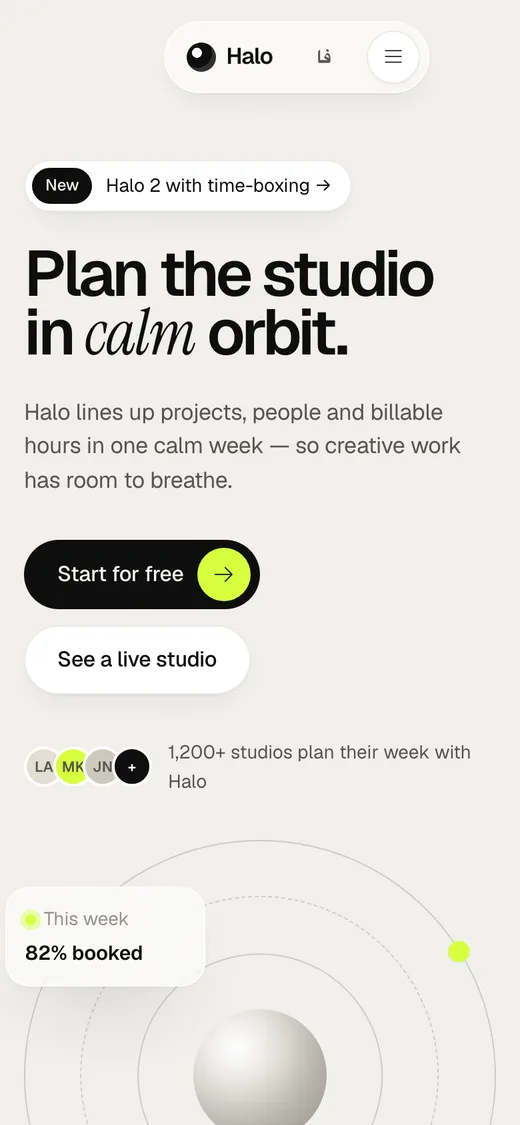
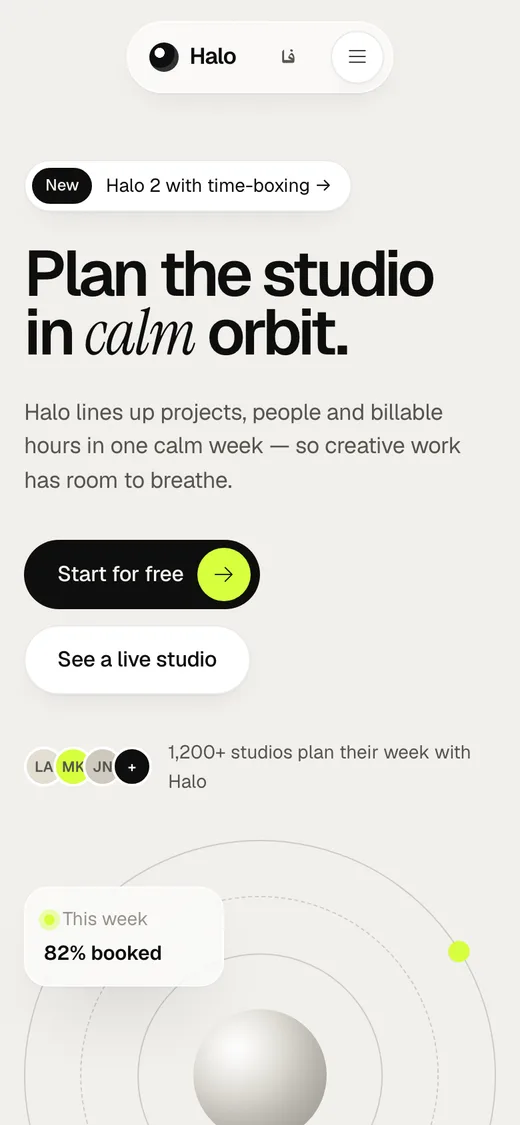
Atelier: keep the hero orbit inside the viewport on small screens

diff --git a/skills/atelier/examples/site.html b/skills/atelier/examples/site.html
@@ -15,6 +15,7 @@
   .hero-visual { position: relative; }
   .hero-visual .fc-1 { inset-block-start: 10%; inset-inline-start: -4%; }
   .hero-visual .fc-2 { inset-block-end: 12%; inset-inline-end: -2%; }
+  @media (max-width: 960px) { .hero-visual .fc-1 { inset-inline-start: 0; } .hero-visual .fc-2 { inset-inline-end: 0; } }
   .hero-visual .fc-1 .dot { inline-size: 8px; block-size: 8px; border-radius: 50%; background: var(--brand); box-shadow: 0 0 0 4px color-mix(in oklab, var(--brand) 40%, transparent); display: inline-block; margin-inline-end: 6px; }
   .tile .visual-bars { display: flex; gap: 8px; align-items: flex-end; block-size: 110px; }
   .tile .visual-bars i { flex: 1; border-radius: 10px; background: var(--surface-3); block-size: var(--h); }

diff --git a/skills/atelier/assets/kit.css b/skills/atelier/assets/kit.css
@@ -90,6 +90,8 @@ h1, h2, h3, h4, p { margin: 0; }
 
 /* ------------------------------------------------------------ hero */
 .hero { min-block-size: min(100vh, 980px); display: grid; grid-template-columns: minmax(0, 1.15fr) minmax(0, .85fr); gap: var(--space-6); align-items: center; padding-block: 140px var(--space-8); }
+.hero > * { min-inline-size: 0; }
+.hero { overflow-x: clip; }
 .hero .display { margin-block: var(--space-5) var(--space-5); }
 .hero-actions { display: flex; flex-wrap: wrap; gap: var(--space-3); align-items: center; margin-block-start: var(--space-6); }
 .proof { display: flex; align-items: center; gap: var(--space-3); margin-block-start: var(--space-6); font-size: 14px; color: var(--ink-2); }
